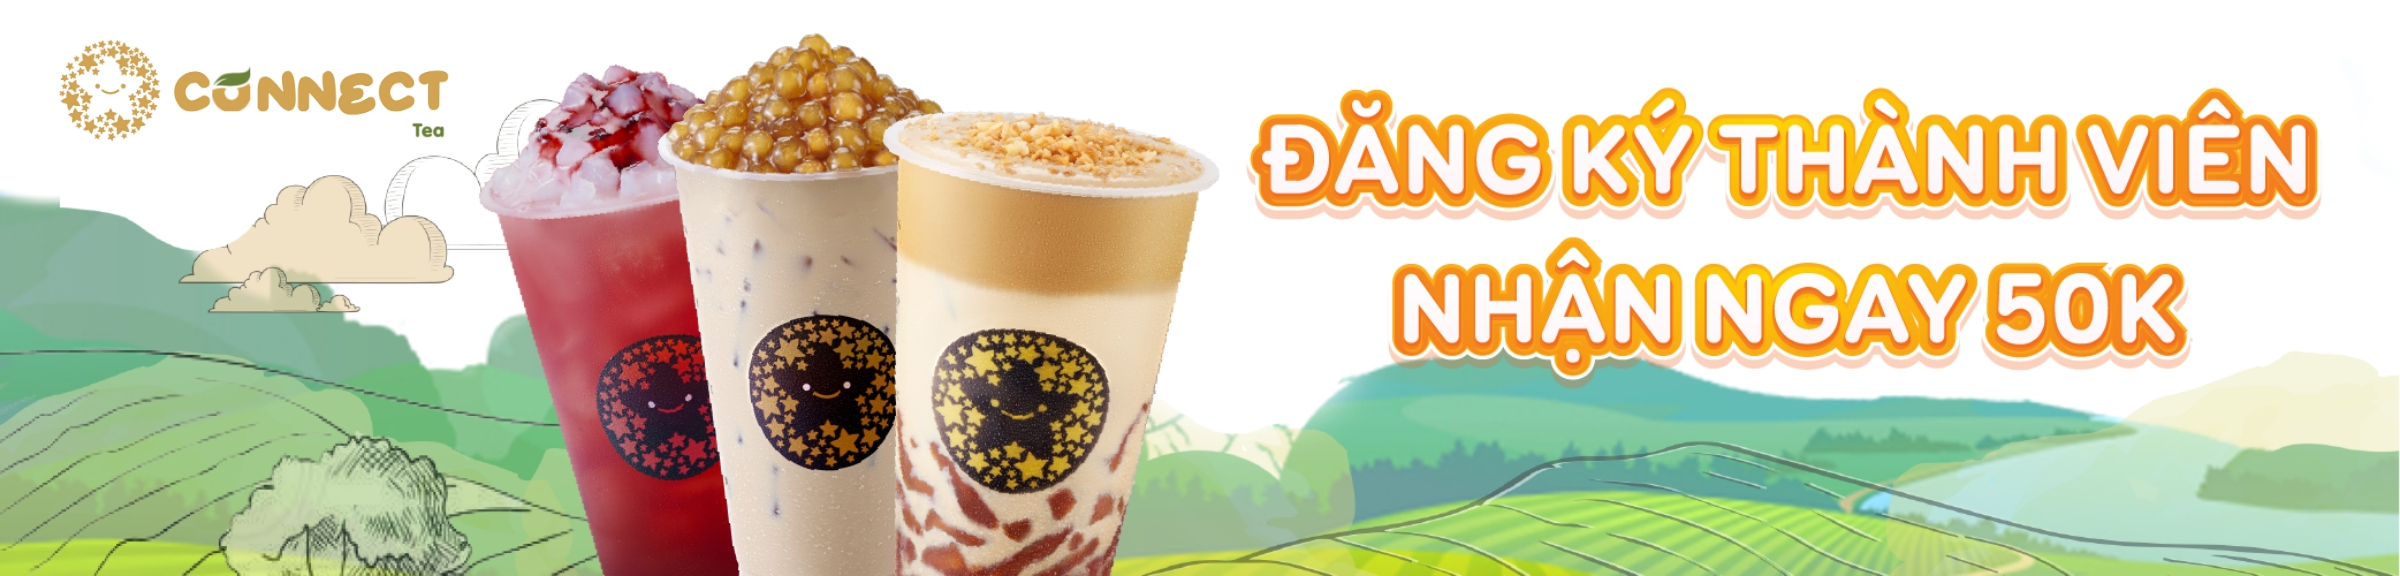
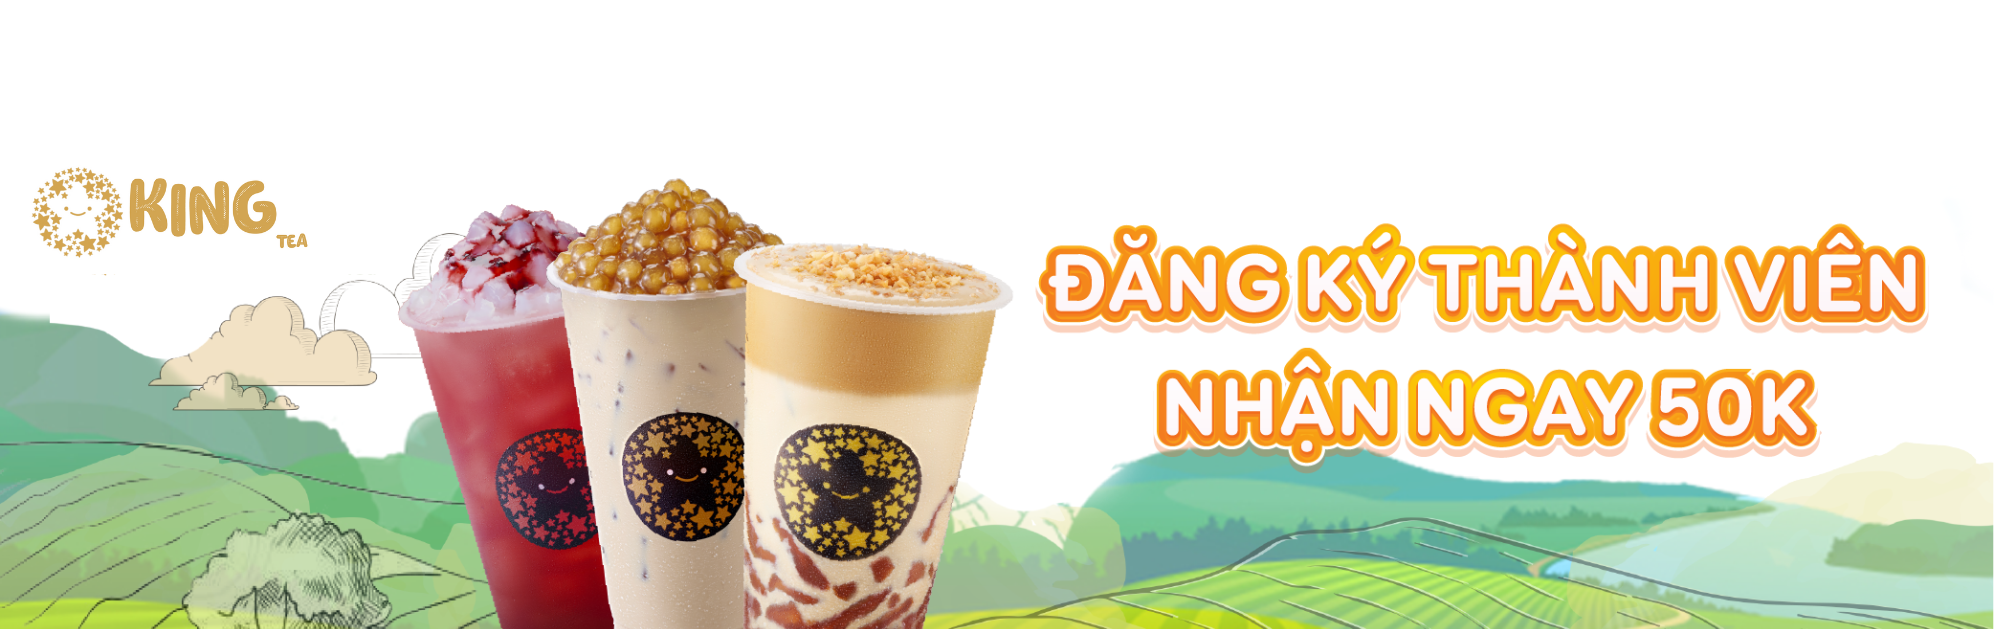
commit

diff --git a/src/pages/Sign-up/Signup.tsx b/src/pages/Sign-up/Signup.tsx
@@ -49,7 +49,7 @@ const Signup = () => {
         <div className='h-full flex justify-center items-center'>
           <div className='content background-content bg-white w-[90vw] md:w-[500px] h-[600px] px-6 md:px-[100px] py-6 flex justify-center items-center flex-col rounded'>
             <div className='logo'>
-              <img src='/logoduantn.jpg' alt='' className='w-[250px] mb-5' />
+              <img src='/logoduan.png' alt='' className='w-[250px] mb-5' />
             </div>
             <form action='' className='flex flex-col w-full' onSubmit={handleSubmit(onRegister)}>
               <Input

diff --git a/src/pages/Sign-in/Signin.tsx b/src/pages/Sign-in/Signin.tsx
@@ -41,7 +41,7 @@ const Signin = () => {
         <div className='flex items-center justify-center h-full'>
           <div className='content background-content bg-white w-[90vw] md:w-[500px] h-[600px] mx-6 md:px-[100px] py-6 flex justify-center items-center flex-col rounded'>
             <div className='logo'>
-              <img src='/logoduantn.jpg' alt='' className='w-[250px] mb-5' />
+              <img src='/logoduan.png' alt='' className='w-[250px] mb-5' />
             </div>
             <form action='' className='flex flex-col w-full' onSubmit={handleSubmit(onLogin)}>
               <Input

diff --git a/src/index.scss b/src/index.scss
@@ -26,6 +26,7 @@
     background-repeat: no-repeat;
     background-size: 100%;
     background-position: bottom center;
+    //background-attachment: fixed;
   }
 
   .btn-shadow {
